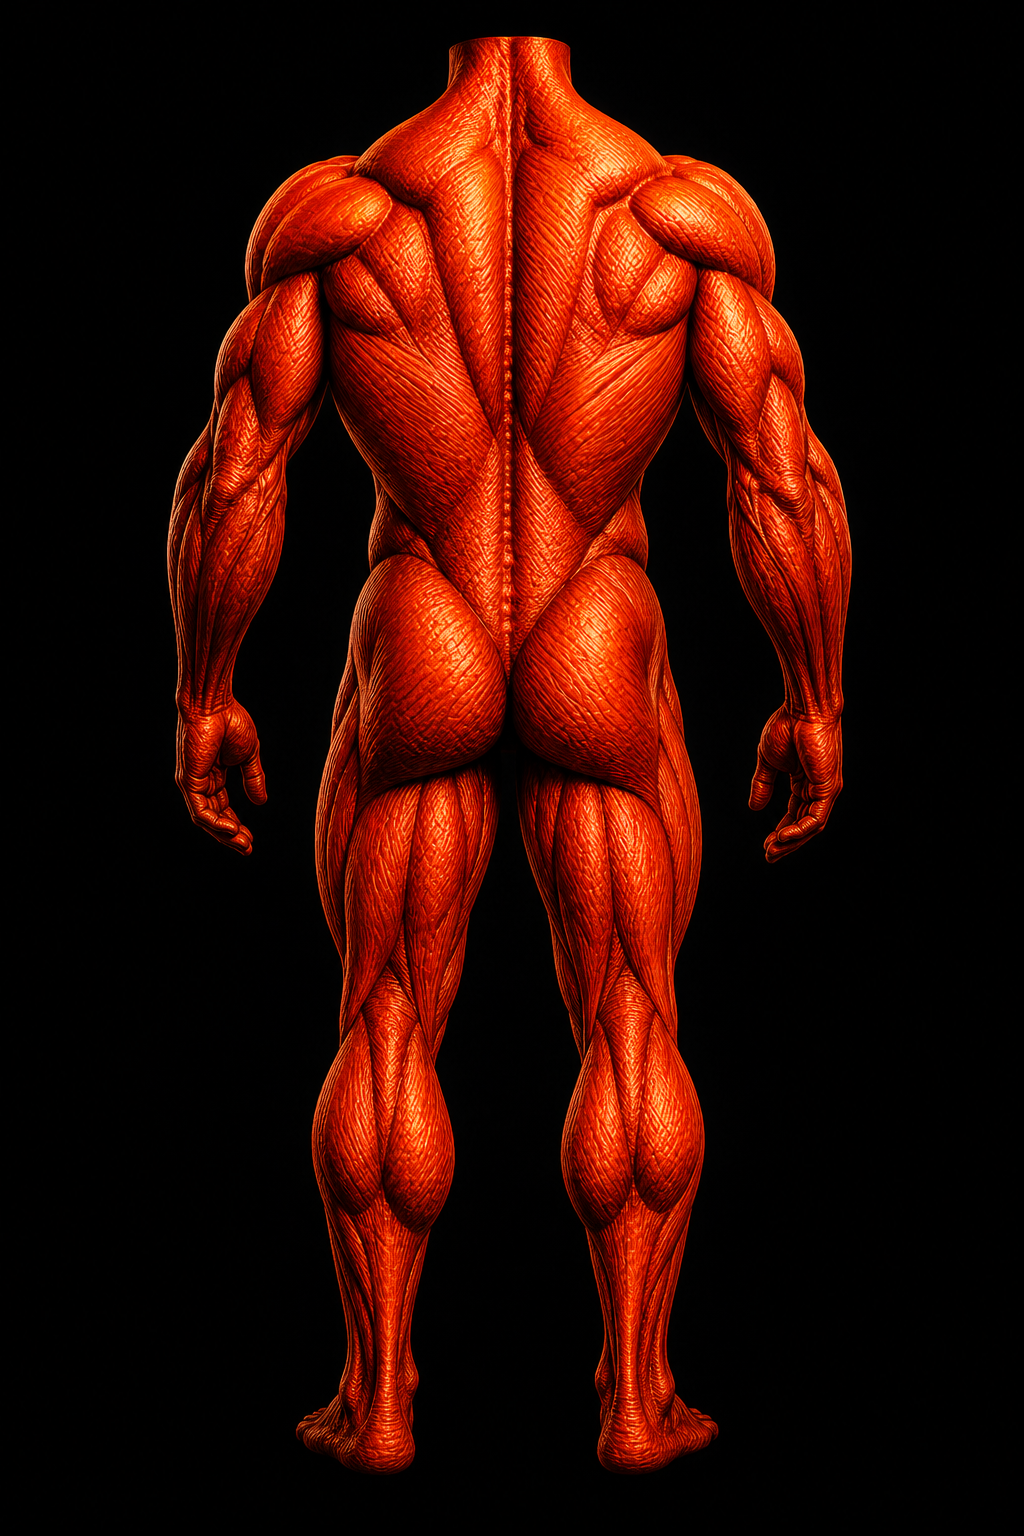
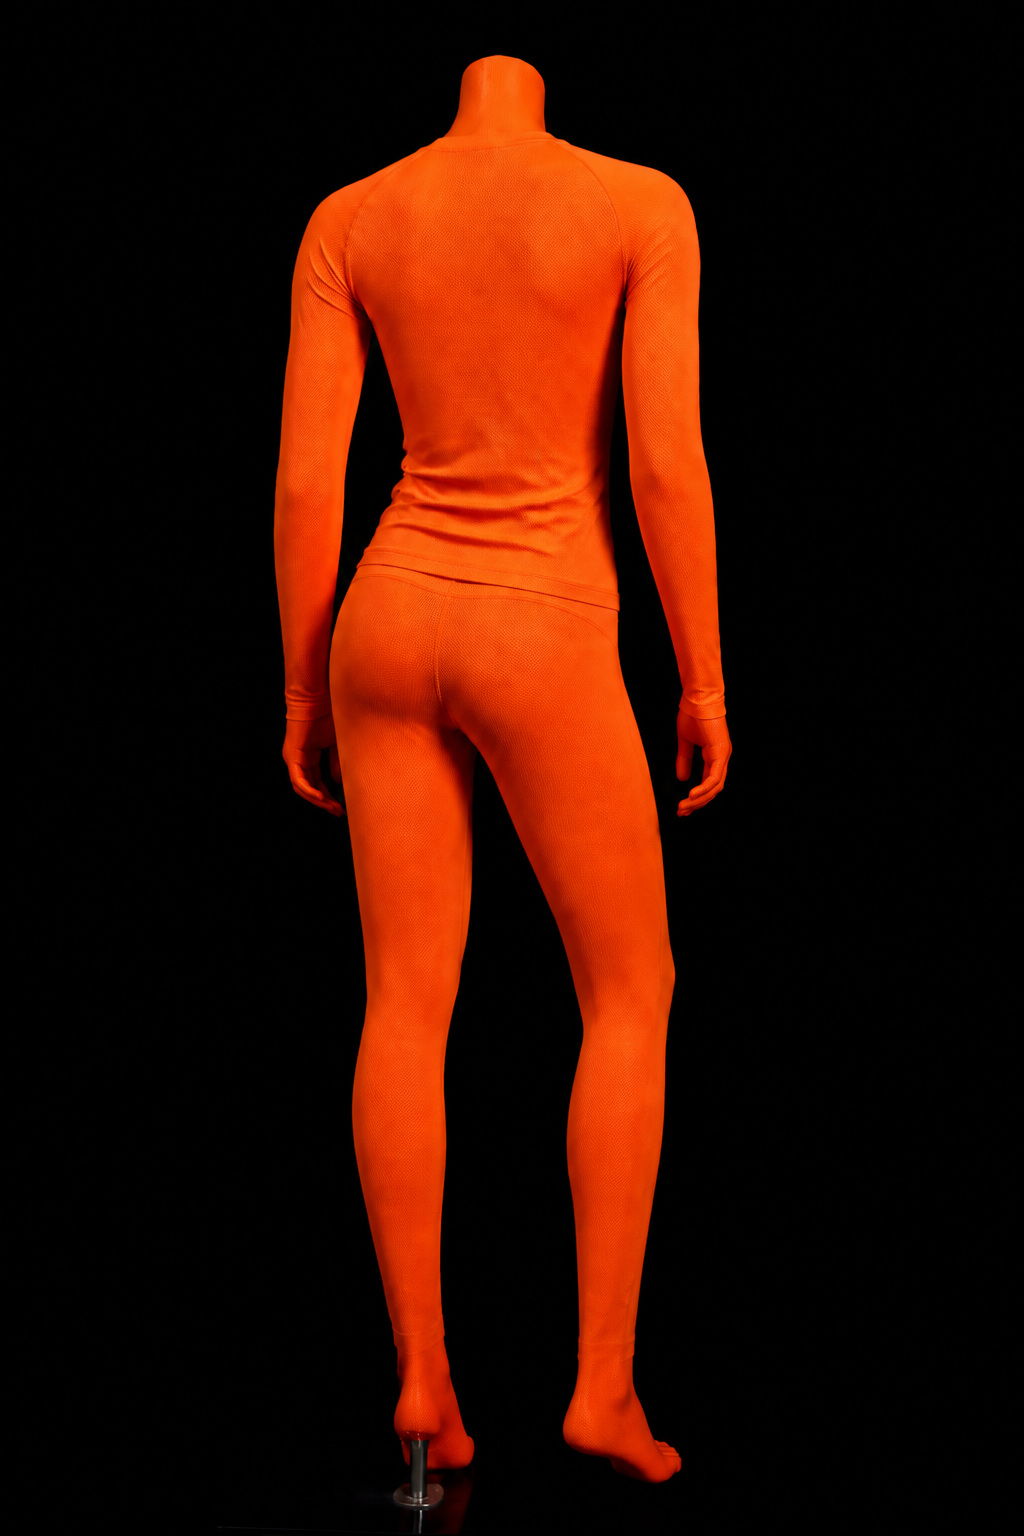
Use a female full-body map and paint glutes plus hamstrings together on compound lifts.

diff --git a/src/data/exerciseCatalog.js b/src/data/exerciseCatalog.js
@@ -10,6 +10,7 @@ export const MUSCLE_LABELS = {
   cuadriceps: "Cuádriceps",
   gluteos: "Glúteos",
   isquios: "Isquios",
+  "gluteos-isquios": "Glúteos e isquios",
   aductor: "Aductor",
   completo: "Completo",
 }
@@ -21,7 +22,7 @@ const MUSCLE_FROM_LABEL = Object.fromEntries(
   ])
 )
 
-const BACK_MUSCLES = new Set(["espalda", "gluteos", "isquios"])
+const BACK_MUSCLES = new Set(["espalda", "gluteos", "isquios", "gluteos-isquios"])
 
 const CATALOG = {
   "press-de-banca": {
@@ -187,10 +188,10 @@ const CATALOG = {
     cues: ["Movimiento controlado", "Sin rebotar", "Rango amplio"],
   },
   "movilidad-dinamica": {
-    type: "aislamiento",
-    primary: "cuadriceps",
-    secondary: ["gluteos", "isquios"],
-    cues: ["Sin bandas", "Rango amplio", "Movimiento controlado"],
+    type: "compuesto",
+    primary: "completo",
+    secondary: [],
+    cues: ["Rango amplio", "Movimiento controlado", "Respirá constante"],
   },
   "movilidad-para-el-dia-de-gluteos": {
     type: "aislamiento",
@@ -333,7 +334,7 @@ const CATALOG = {
 }
 
 const KEYWORD_RULES = [
-  { test: /cinta|eliptica|cardio|full.?body|cuerpo.?completo|todo.?el.?cuerpo/, primary: "completo", secondary: [], type: "compuesto" },
+  { test: /cinta|eliptica|cardio|full.?body|cuerpo.?completo|todo.?el.?cuerpo|movilidad.?dinamica/, primary: "completo", secondary: [], type: "compuesto" },
   { test: /banca|press inclin|flexion|cruce|pec fly|aperturas/, primary: "pecho", secondary: ["triceps", "hombros"], type: "compuesto" },
   { test: /dominad|jalon|remo|pull ?over|espalda/, primary: "espalda", secondary: ["biceps"], type: "compuesto" },
   { test: /militar|vuelo|hombro|laterales/, primary: "hombros", secondary: ["triceps"], type: "aislamiento" },
@@ -359,6 +360,7 @@ const DEFAULT_CUES = {
   cuadriceps: ["Rodillas alineadas", "Peso en talones", "Torso estable"],
   gluteos: ["Empujá con talones", "Pausa arriba", "Sin arquear lumbar"],
   isquios: ["Cadera hacia atrás", "Espalda neutra", "Control en la bajada"],
+  "gluteos-isquios": ["Cadera hacia atrás", "Empujá con talones", "Espalda neutra"],
   aductor: ["Rodillas hacia afuera", "Cadera quieta", "Rango controlado"],
   completo: ["Postura estable", "Movimiento controlado", "Respirá constante"],
 }
@@ -369,6 +371,9 @@ const MUSCLE_ALIASES = {
   fullbody: "completo",
   "todo el cuerpo": "completo",
   cardio: "completo",
+  "gluteos e isquios": "gluteos-isquios",
+  "glúteos e isquios": "gluteos-isquios",
+  "isquios y gluteos": "gluteos-isquios",
 }
 
 function muscleKeyFromLabel(value) {
@@ -404,10 +409,16 @@ export function resolveExerciseMeta(exercise) {
   const listed = CATALOG[slug]
   const inferred = listed || fromKeywords(name)
   const assigned = muscleKeyFromLabel(exercise?.muscle)
-
-  const primary = assigned || inferred?.primary || "pecho"
+  const inferredPrimary = inferred?.primary || ""
+  const primary = inferredPrimary === "completo"
+    ? "completo"
+    : (assigned || inferredPrimary || "pecho")
   const secondary = (inferred?.secondary || []).filter((key) => key !== primary)
   const type = inferred?.type || "compuesto"
+  const zones = new Set([primary, ...secondary])
+  const mapKey = primary === "gluteos-isquios" || (type === "compuesto" && zones.has("gluteos") && zones.has("isquios"))
+    ? "gluteos-isquios"
+    : primary
 
   return {
     name,
@@ -418,7 +429,8 @@ export function resolveExerciseMeta(exercise) {
     secondary,
     secondaryLabels: secondary.map((key) => MUSCLE_LABELS[key]).filter(Boolean),
     muscles: [primary, ...secondary],
+    mapKey,
     cues: inferred?.cues || DEFAULT_CUES[primary] || DEFAULT_CUES.pecho,
-    preferredView: BACK_MUSCLES.has(primary) ? "back" : "front",
+    preferredView: BACK_MUSCLES.has(mapKey) || BACK_MUSCLES.has(primary) ? "back" : "front",
   }
 }

diff --git a/src/components/plan/MuscleMap.jsx b/src/components/plan/MuscleMap.jsx
@@ -6,7 +6,7 @@ const FRONT = {
   abdominales: "/anatomy/anatomy-front-abdominales.jpg",
   cuadriceps: "/anatomy/anatomy-front-cuadriceps.jpg",
   aductor: "/anatomy/anatomy-front-aductor.jpg",
-  completo: "/anatomy/anatomy-front-completo.jpg",
+  completo: "/anatomy/anatomy-front-completo.png?v=3",
 }
 
 const BACK = {
@@ -15,14 +15,15 @@ const BACK = {
   triceps: "/anatomy/anatomy-back-triceps.jpg",
   gluteos: "/anatomy/anatomy-back-gluteos.jpg",
   isquios: "/anatomy/anatomy-back-isquios.jpg",
-  completo: "/anatomy/anatomy-back-completo.jpg",
+  "gluteos-isquios": "/anatomy/anatomy-back-gluteos-isquios.jpg?v=1",
+  completo: "/anatomy/anatomy-back-completo.jpg?v=2",
 }
 
 const FRONT_BASE = "/anatomy/anatomy-front.jpg"
 const BACK_BASE = "/anatomy/anatomy-back.jpg"
 const BACK_LEGS = "/anatomy/anatomy-back-legs.jpg"
 
-const LOWER = new Set(["gluteos", "isquios", "cuadriceps", "aductor"])
+const LOWER = new Set(["gluteos", "isquios", "gluteos-isquios", "cuadriceps", "aductor"])
 const FULL_BODY = new Set(["completo"])
 
 export function anatomySrc(primary, view) {

diff --git a/src/components/plan/ExerciseDetail.jsx b/src/components/plan/ExerciseDetail.jsx
@@ -220,7 +220,7 @@ export default function ExerciseDetail({
               </ul>
               <div className="relative">
                 <MuscleMap
-                  primary={meta.primary}
+                  primary={meta.mapKey || meta.primary}
                   view={view}
                   className="w-full h-[220px] rounded-[22px] bg-black"
                 />
@@ -247,9 +247,11 @@ export default function ExerciseDetail({
               </div>
             </div>
             <p className="mt-3 text-[12px] text-slate-500">
-              {meta.primary === "completo"
+              {meta.mapKey === "completo"
                 ? "En naranja, trabaja el cuerpo entero."
-                : "En naranja, la zona que más trabaja. El resto queda de apoyo."}
+                : meta.mapKey === "gluteos-isquios"
+                  ? "En naranja, glúteos e isquios juntos."
+                  : "En naranja, la zona que más trabaja. El resto queda de apoyo."}
             </p>
           </section>
 

diff --git a/src/components/plan/CoachPlanEditor.jsx b/src/components/plan/CoachPlanEditor.jsx
@@ -588,7 +588,7 @@ export default function CoachPlanEditor() {
                               />
                             ) : hasMuscle ? (
                               <MuscleMap
-                                primary={meta.primary}
+                                primary={meta.mapKey || meta.primary}
                                 view={meta.preferredView}
                                 className="h-full w-full"
                               />
@@ -745,7 +745,7 @@ export default function CoachPlanEditor() {
                           <div className="h-9 w-[52px] rounded-xl overflow-hidden bg-[#1a1a1a]">
                             {hasMuscle ? (
                               <MuscleMap
-                                primary={meta.primary}
+                                primary={meta.mapKey || meta.primary}
                                 view={meta.preferredView}
                                 className="h-full w-full"
                               />

diff --git a/src/pages/Login.jsx b/src/pages/Login.jsx
@@ -98,9 +98,10 @@ export default function Login() {
               id="login-user"
               value={username}
               onChange={(e) => setUsername(e.target.value)}
+              placeholder="usuario"
               autoCapitalize="none"
               autoCorrect="off"
-              autoComplete="username"
+              autoComplete="off"
               required
               disabled={loading}
               className={fieldClass}
@@ -119,7 +120,8 @@ export default function Login() {
               maxLength={role === "alumna" ? 6 : 72}
               value={pin}
               onChange={(e) => handlePinChange(e.target.value)}
-              autoComplete="current-password"
+              placeholder="••••"
+              autoComplete="off"
               required
               disabled={loading}
               className={`${fieldClass} tracking-[0.45em]`}
